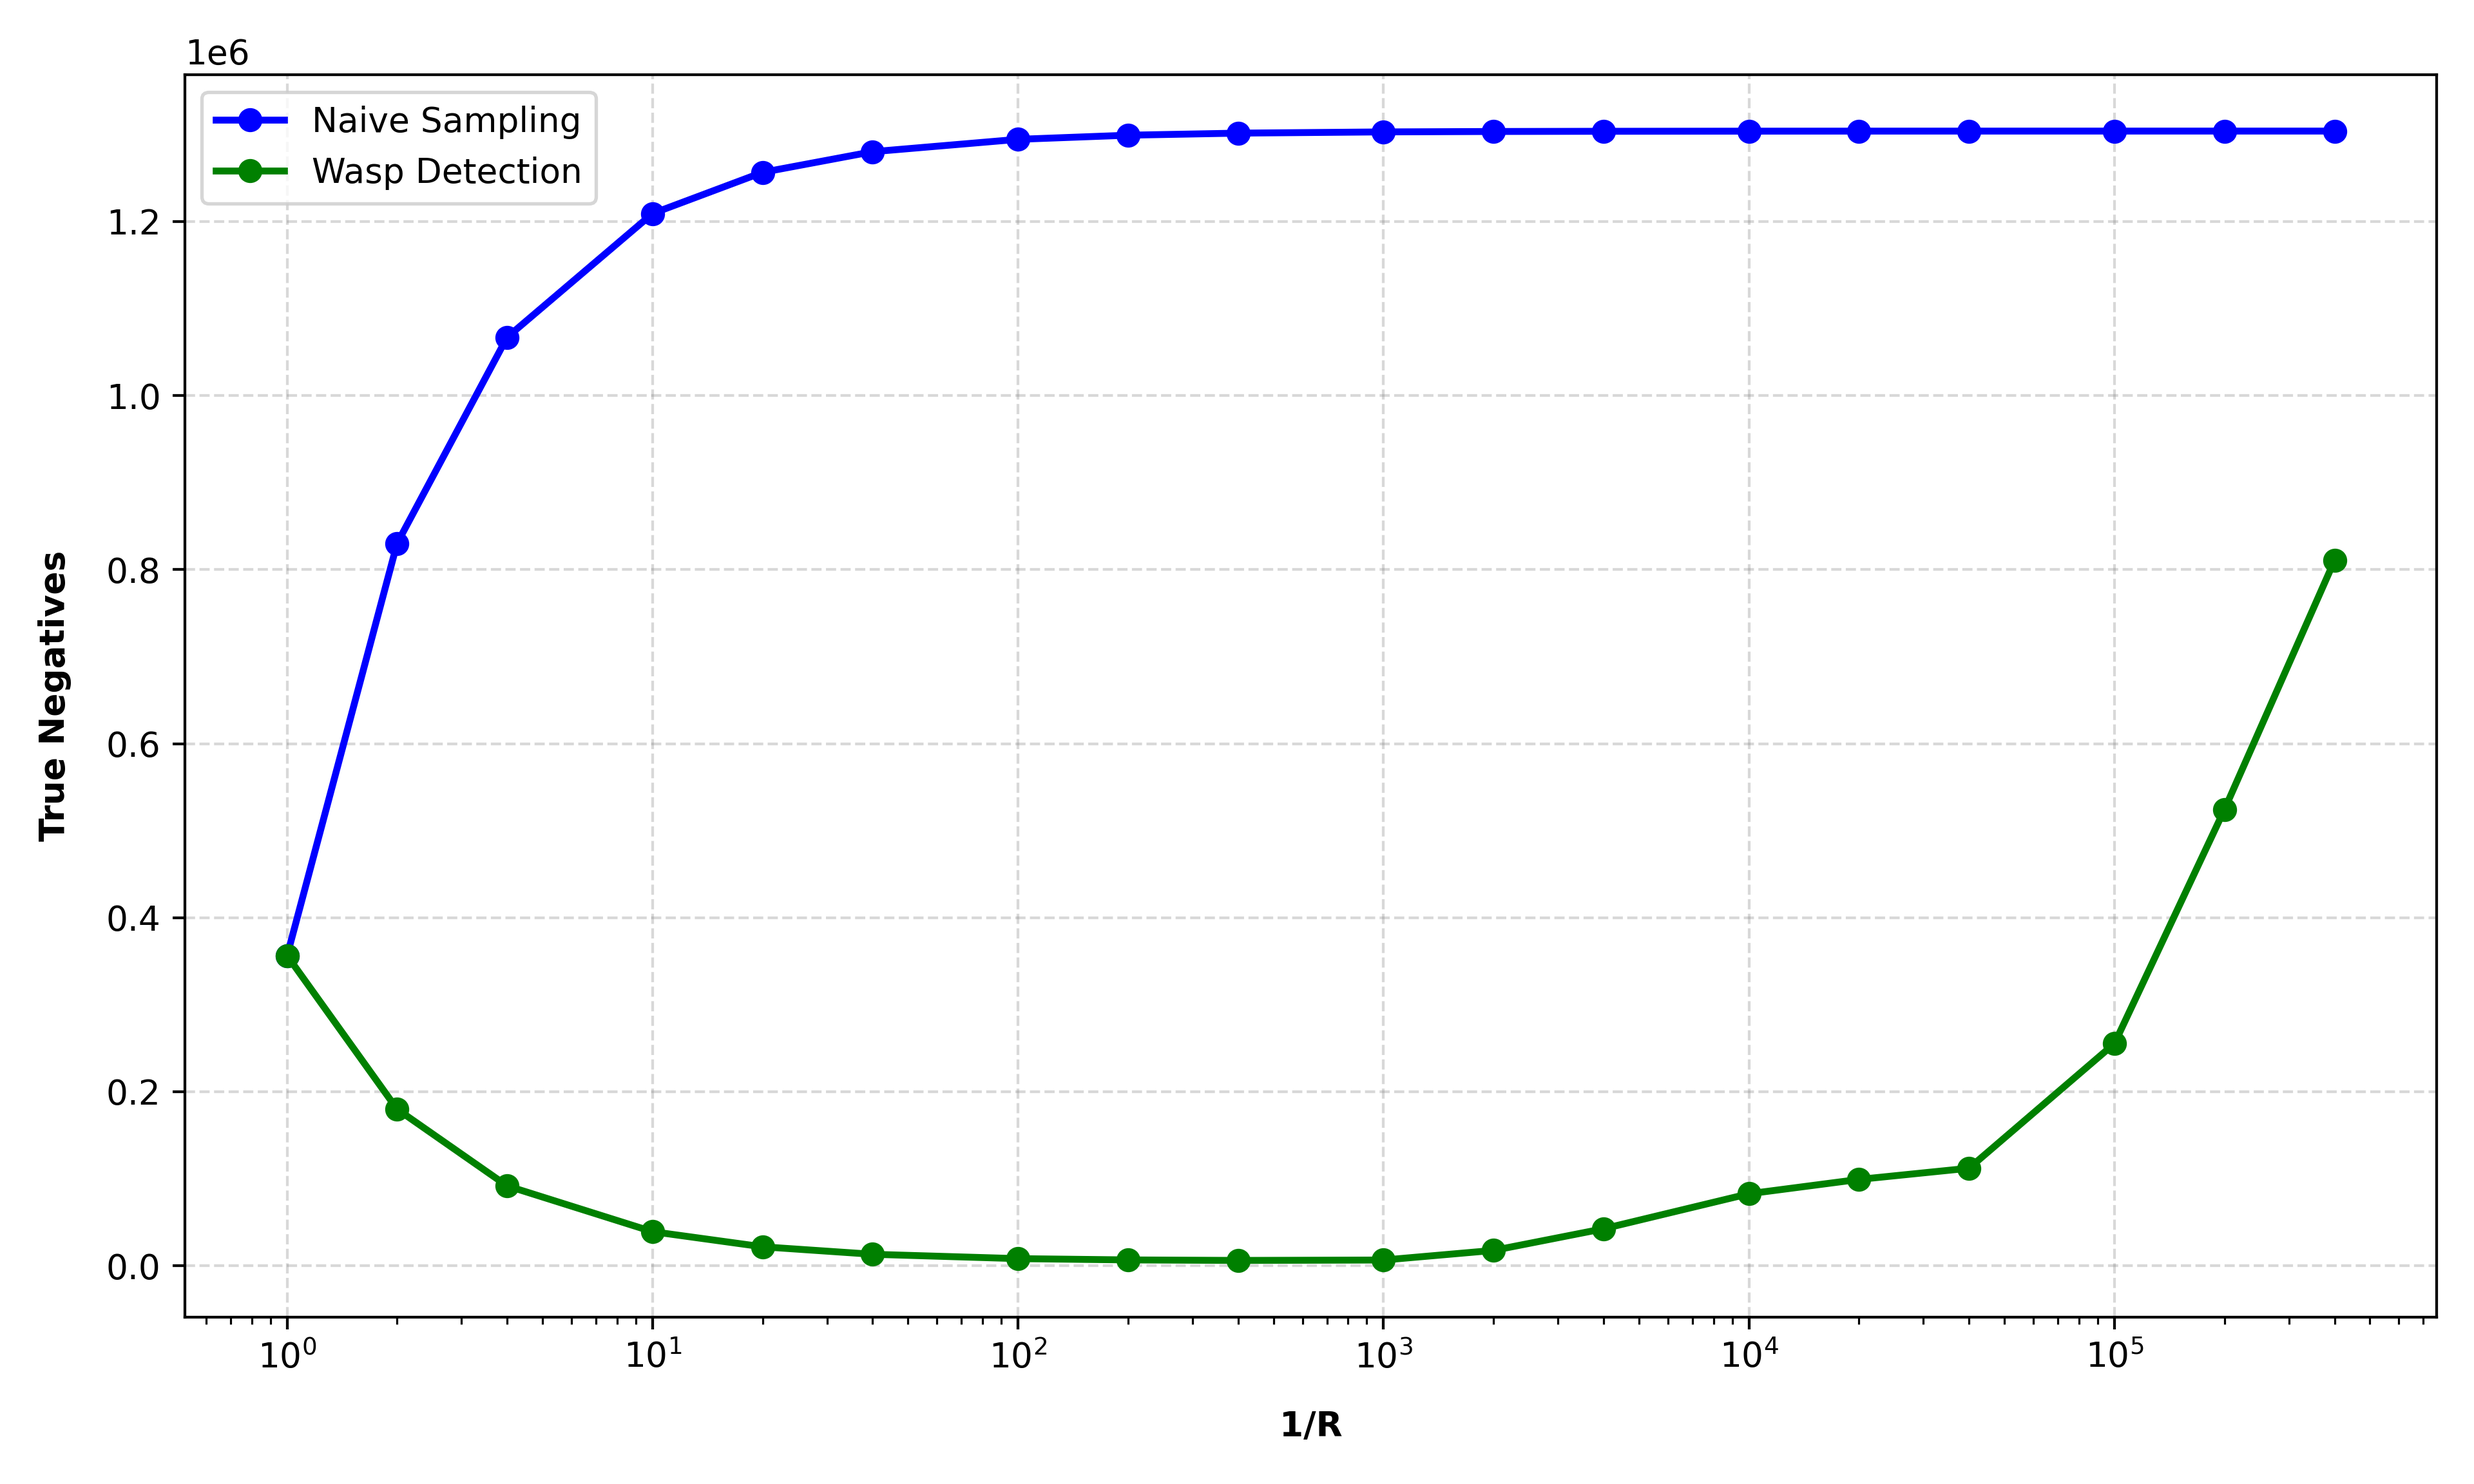
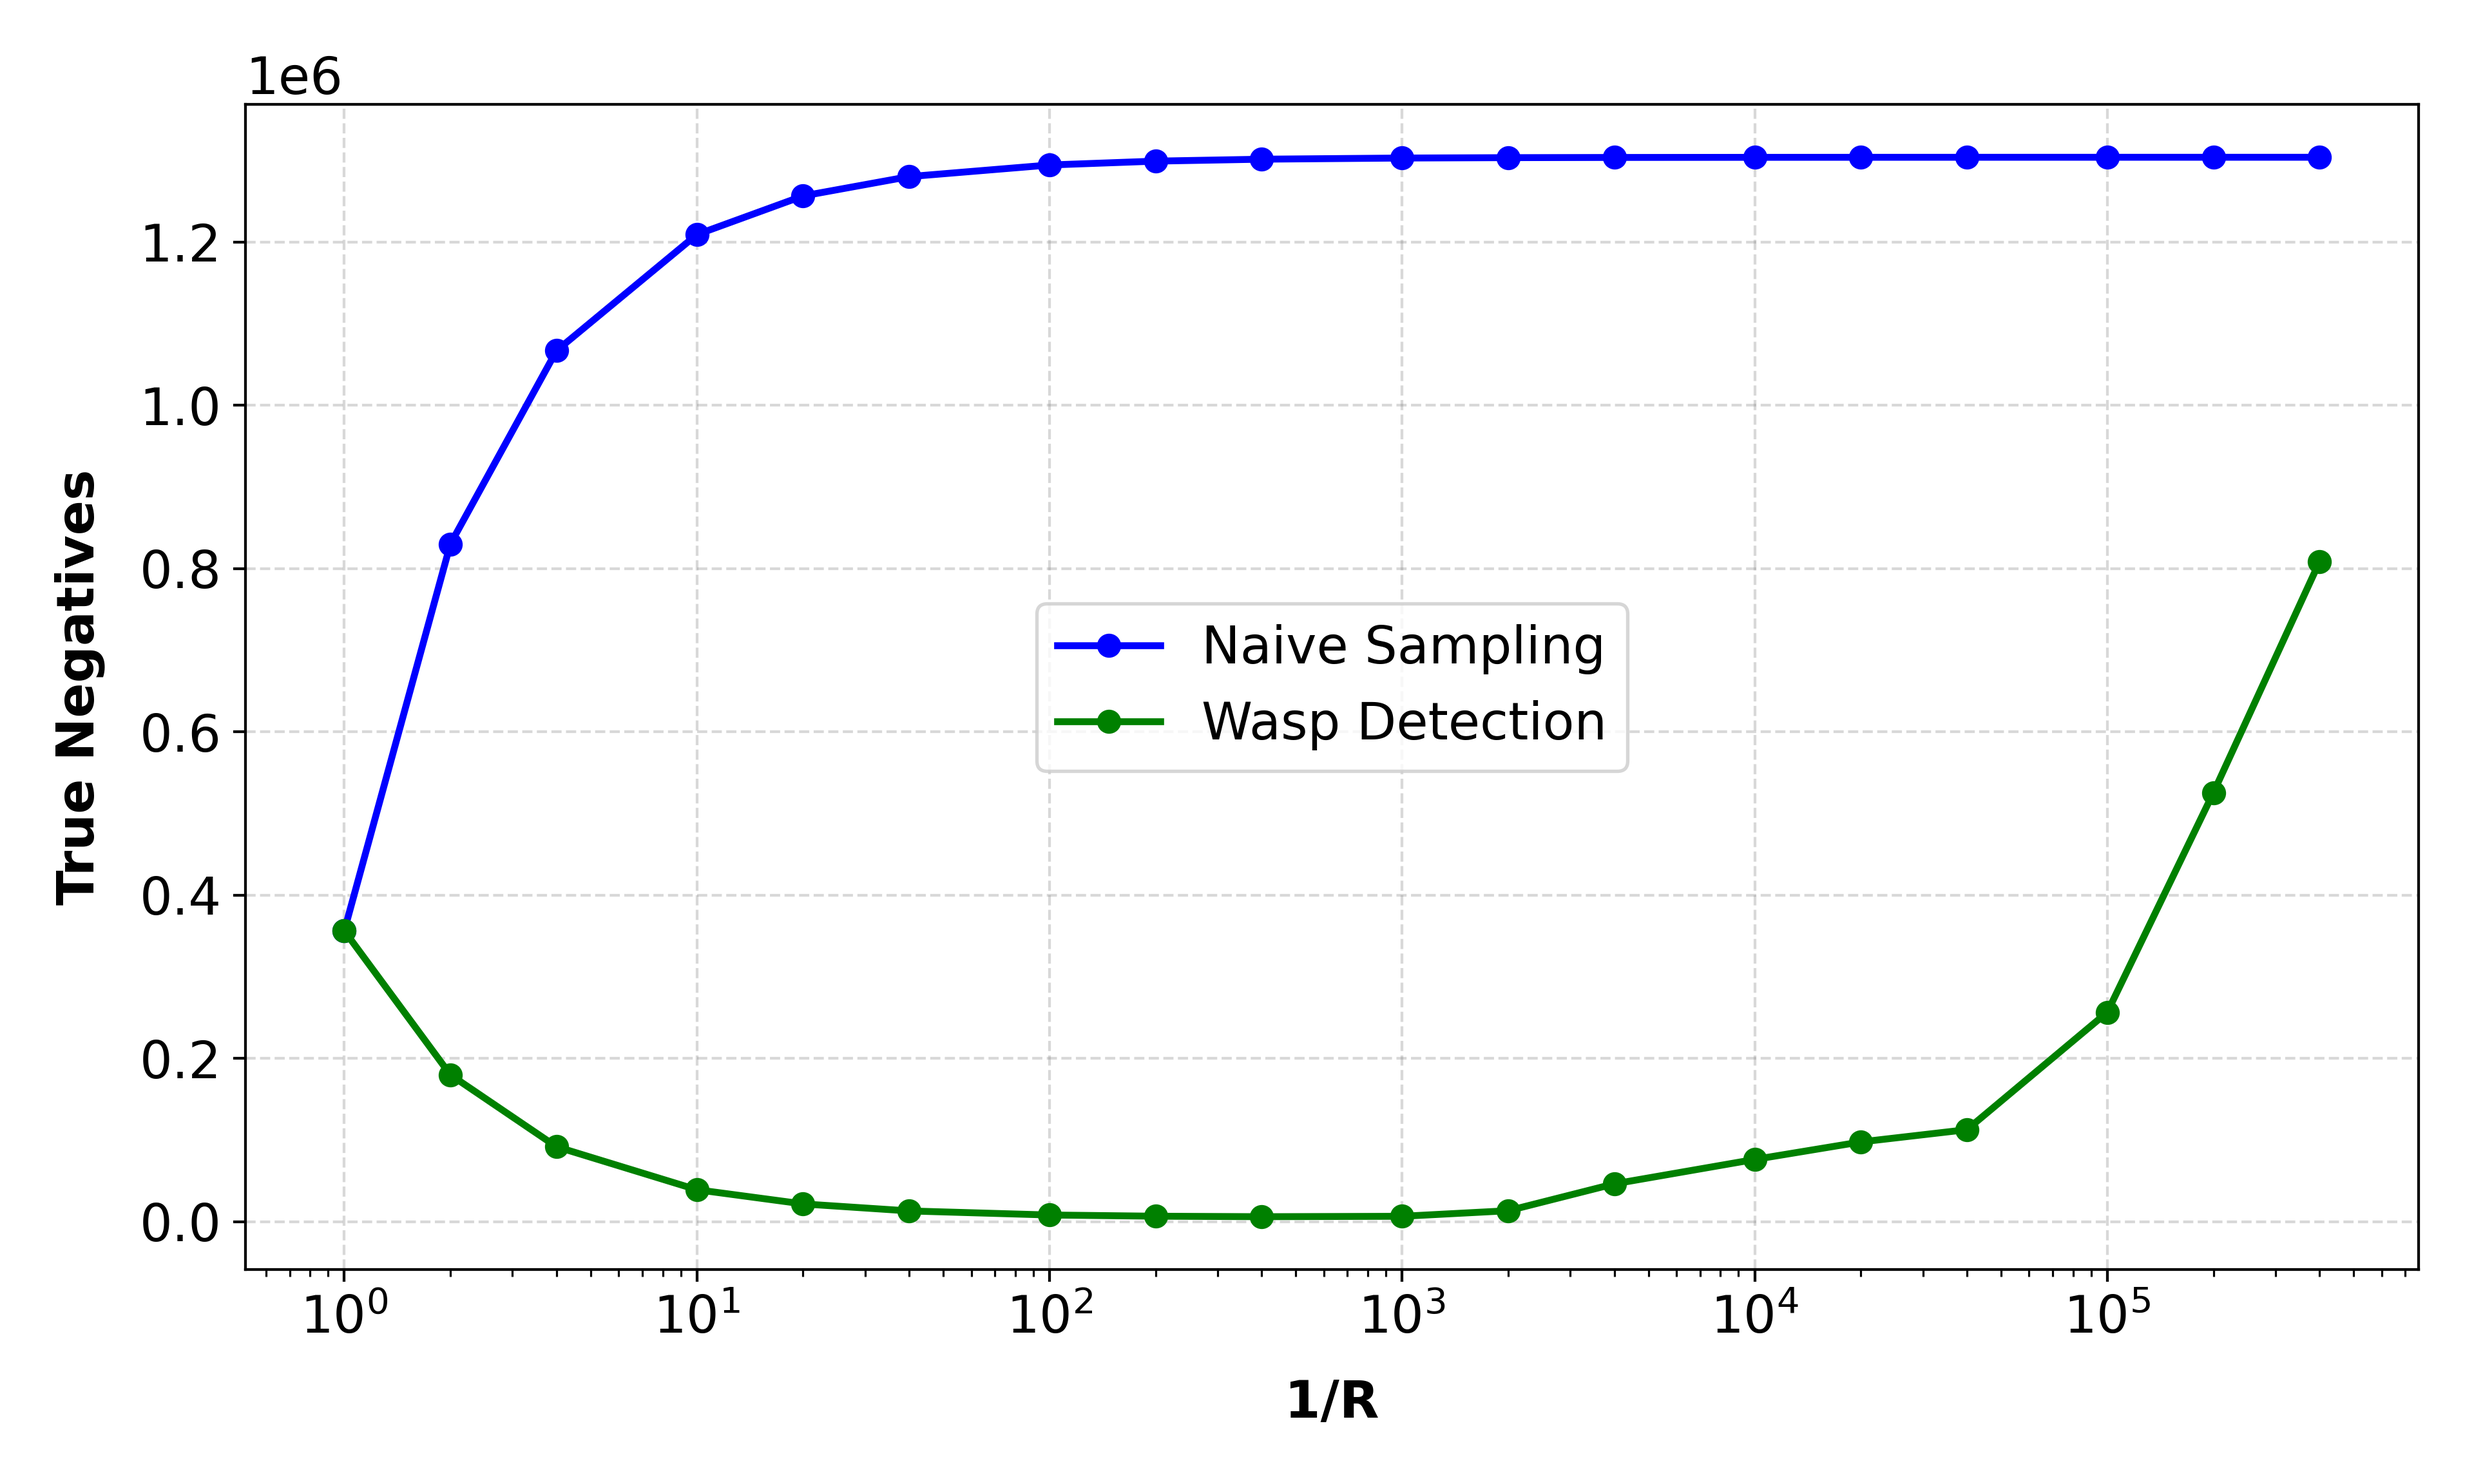
Adjusts graph font sizes for better readability

diff --git a/ResearchTools/tools.py b/ResearchTools/tools.py
@@ -283,6 +283,7 @@ def benchmark (predictions, flowIDs, true_labels, rates = None, iterations = 300
     # PLOTS [ using logarithmic scale for the x-axis ] 
     # Recall plot
     plot.figure(figsize=(10, 6))
+    plot.rcParams.update({'font.size': 15})
     plot.plot(inverse_rates, naive_recall_results, marker='o', linestyle='-', linewidth=2, color='blue', label='Naive Sampling')
     plot.plot(inverse_rates, wasps_recall_results, marker='o', linestyle='-', linewidth=2, color='green', label='Wasp Detection')
     plot.xlabel('1/R', fontweight='semibold', labelpad=10)
@@ -296,6 +297,7 @@ def benchmark (predictions, flowIDs, true_labels, rates = None, iterations = 300
     
     # Precision plot
     plot.figure(figsize=(10, 6))
+    plot.rcParams.update({'font.size': 15})
     plot.plot(inverse_rates, naive_precision_results, marker='o', linestyle='-', linewidth=2, color='blue', label='Naive Sampling')
     plot.plot(inverse_rates, wasps_precision_results, marker='o', linestyle='-', linewidth=2, color='green', label='Wasp Detection')
     plot.xlabel('1/R', fontweight='semibold', labelpad=10)
@@ -309,6 +311,7 @@ def benchmark (predictions, flowIDs, true_labels, rates = None, iterations = 300
     
     # F1 score plot
     plot.figure(figsize=(10, 6))
+    plot.rcParams.update({'font.size': 15})
     plot.plot(inverse_rates, naive_f1_score_results, marker='o', linestyle='-', linewidth=2, color='blue', label='Naive Sampling')
     plot.plot(inverse_rates, wasps_f1_score_results, marker='o', linestyle='-', linewidth=2, color='green', label='Wasp Detection')
     plot.xlabel('1/R', fontweight='semibold', labelpad=10)
@@ -322,6 +325,7 @@ def benchmark (predictions, flowIDs, true_labels, rates = None, iterations = 300
     
     # Accuracy plot
     plot.figure(figsize=(10, 6))
+    plot.rcParams.update({'font.size': 15})
     plot.plot(inverse_rates, naive_accuracy_results, marker='o', linestyle='-', linewidth=2, color='blue', label='Naive Sampling')
     plot.plot(inverse_rates, wasps_accuracy_results, marker='o', linestyle='-', linewidth=2, color='green', label='Wasp Detection')
     plot.xlabel('1/R', fontweight='semibold', labelpad=10)
@@ -335,6 +339,7 @@ def benchmark (predictions, flowIDs, true_labels, rates = None, iterations = 300
     
     # TP plot
     plot.figure(figsize=(10, 6))
+    plot.rcParams.update({'font.size': 15})
     plot.plot(inverse_rates, naive_tp_results, marker='o', linestyle='-', linewidth=2, color='blue', label='Naive Sampling')
     plot.plot(inverse_rates, wasps_tp_results, marker='o', linestyle='-', linewidth=2, color='green', label='Wasp Detection')
     plot.xlabel('1/R', fontweight='semibold', labelpad=10)
@@ -347,6 +352,7 @@ def benchmark (predictions, flowIDs, true_labels, rates = None, iterations = 300
     
     # FP plot
     plot.figure(figsize=(10, 6))
+    plot.rcParams.update({'font.size': 15})
     plot.plot(inverse_rates, naive_fp_results, marker='o', linestyle='-', linewidth=2, color='blue', label='Naive Sampling')
     plot.plot(inverse_rates, wasps_fp_results, marker='o', linestyle='-', linewidth=2, color='green', label='Wasp Detection')
     plot.xlabel('1/R', fontweight='semibold', labelpad=10)
@@ -359,6 +365,7 @@ def benchmark (predictions, flowIDs, true_labels, rates = None, iterations = 300
     
     # FN plot
     plot.figure(figsize=(10, 6))
+    plot.rcParams.update({'font.size': 15})
     plot.plot(inverse_rates, naive_fn_results, marker='o', linestyle='-', linewidth=2, color='blue', label='Naive Sampling')
     plot.plot(inverse_rates, wasps_fn_results, marker='o', linestyle='-', linewidth=2, color='green', label='Wasp Detection')
     plot.xlabel('1/R', fontweight='semibold', labelpad=10)
@@ -371,6 +378,7 @@ def benchmark (predictions, flowIDs, true_labels, rates = None, iterations = 300
     
     # TN plot
     plot.figure(figsize=(10, 6))
+    plot.rcParams.update({'font.size': 15})
     plot.plot(inverse_rates, naive_tn_results, marker='o', linestyle='-', linewidth=2, color='blue', label='Naive Sampling')
     plot.plot(inverse_rates, wasps_tn_results, marker='o', linestyle='-', linewidth=2, color='green', label='Wasp Detection')
     plot.xlabel('1/R', fontweight='semibold', labelpad=10)
